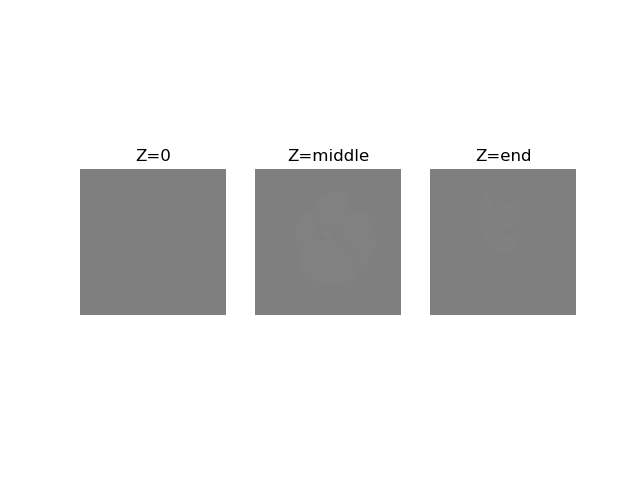
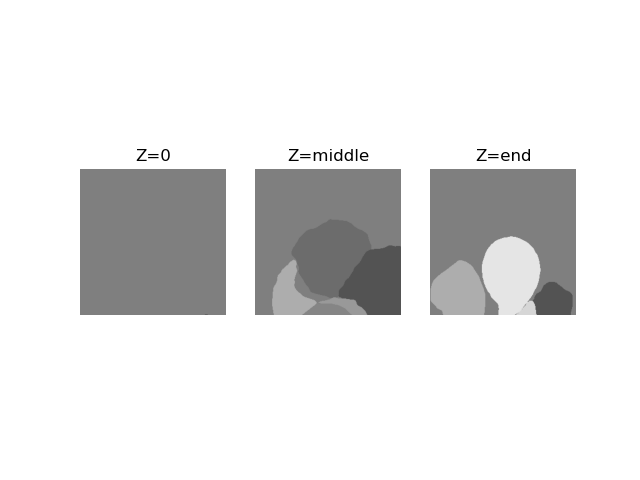
sync

Changed region(s): [[0.6562, 0.4688, 0.9062, 0.6562], [0.4062, 0.5, 0.625, 0.6562]]

diff --git a/results/experiment_name/test_latest/index.html b/results/experiment_name/test_latest/index.html
@@ -17,22 +17,6 @@
         </td>
         <td halign="center" style="word-wrap: break-word;" valign="top">
           <p>
-            <a href="images/ct_test_0_image_fake_B.png">
-              <img src="images/ct_test_0_image_fake_B.png" style="width:256px">
-            </a><br>
-            <p>fake_B</p>
-          </p>
-        </td>
-        <td halign="center" style="word-wrap: break-word;" valign="top">
-          <p>
-            <a href="images/ct_test_0_image_rec_A.png">
-              <img src="images/ct_test_0_image_rec_A.png" style="width:256px">
-            </a><br>
-            <p>rec_A</p>
-          </p>
-        </td>
-        <td halign="center" style="word-wrap: break-word;" valign="top">
-          <p>
             <a href="images/ct_test_0_image_ground_truth_seg_A.png">
               <img src="images/ct_test_0_image_ground_truth_seg_A.png" style="width:256px">
             </a><br>
@@ -53,22 +37,6 @@
               <img src="images/ct_test_0_image_real_B.png" style="width:256px">
             </a><br>
             <p>real_B</p>
-          </p>
-        </td>
-        <td halign="center" style="word-wrap: break-word;" valign="top">
-          <p>
-            <a href="images/ct_test_0_image_fake_A.png">
-              <img src="images/ct_test_0_image_fake_A.png" style="width:256px">
-            </a><br>
-            <p>fake_A</p>
-          </p>
-        </td>
-        <td halign="center" style="word-wrap: break-word;" valign="top">
-          <p>
-            <a href="images/ct_test_0_image_rec_B.png">
-              <img src="images/ct_test_0_image_rec_B.png" style="width:256px">
-            </a><br>
-            <p>rec_B</p>
           </p>
         </td>
         <td halign="center" style="word-wrap: break-word;" valign="top">
@@ -102,22 +70,6 @@
         </td>
         <td halign="center" style="word-wrap: break-word;" valign="top">
           <p>
-            <a href="images/ct_test_1_image_fake_B.png">
-              <img src="images/ct_test_1_image_fake_B.png" style="width:256px">
-            </a><br>
-            <p>fake_B</p>
-          </p>
-        </td>
-        <td halign="center" style="word-wrap: break-word;" valign="top">
-          <p>
-            <a href="images/ct_test_1_image_rec_A.png">
-              <img src="images/ct_test_1_image_rec_A.png" style="width:256px">
-            </a><br>
-            <p>rec_A</p>
-          </p>
-        </td>
-        <td halign="center" style="word-wrap: break-word;" valign="top">
-          <p>
             <a href="images/ct_test_1_image_ground_truth_seg_A.png">
               <img src="images/ct_test_1_image_ground_truth_seg_A.png" style="width:256px">
             </a><br>
@@ -138,22 +90,6 @@
               <img src="images/ct_test_1_image_real_B.png" style="width:256px">
             </a><br>
             <p>real_B</p>
-          </p>
-        </td>
-        <td halign="center" style="word-wrap: break-word;" valign="top">
-          <p>
-            <a href="images/ct_test_1_image_fake_A.png">
-              <img src="images/ct_test_1_image_fake_A.png" style="width:256px">
-            </a><br>
-            <p>fake_A</p>
-          </p>
-        </td>
-        <td halign="center" style="word-wrap: break-word;" valign="top">
-          <p>
-            <a href="images/ct_test_1_image_rec_B.png">
-              <img src="images/ct_test_1_image_rec_B.png" style="width:256px">
-            </a><br>
-            <p>rec_B</p>
           </p>
         </td>
         <td halign="center" style="word-wrap: break-word;" valign="top">
@@ -187,22 +123,6 @@
         </td>
         <td halign="center" style="word-wrap: break-word;" valign="top">
           <p>
-            <a href="images/ct_test_2_image_fake_B.png">
-              <img src="images/ct_test_2_image_fake_B.png" style="width:256px">
-            </a><br>
-            <p>fake_B</p>
-          </p>
-        </td>
-        <td halign="center" style="word-wrap: break-word;" valign="top">
-          <p>
-            <a href="images/ct_test_2_image_rec_A.png">
-              <img src="images/ct_test_2_image_rec_A.png" style="width:256px">
-            </a><br>
-            <p>rec_A</p>
-          </p>
-        </td>
-        <td halign="center" style="word-wrap: break-word;" valign="top">
-          <p>
             <a href="images/ct_test_2_image_ground_truth_seg_A.png">
               <img src="images/ct_test_2_image_ground_truth_seg_A.png" style="width:256px">
             </a><br>
@@ -223,22 +143,6 @@
               <img src="images/ct_test_2_image_real_B.png" style="width:256px">
             </a><br>
             <p>real_B</p>
-          </p>
-        </td>
-        <td halign="center" style="word-wrap: break-word;" valign="top">
-          <p>
-            <a href="images/ct_test_2_image_fake_A.png">
-              <img src="images/ct_test_2_image_fake_A.png" style="width:256px">
-            </a><br>
-            <p>fake_A</p>
-          </p>
-        </td>
-        <td halign="center" style="word-wrap: break-word;" valign="top">
-          <p>
-            <a href="images/ct_test_2_image_rec_B.png">
-              <img src="images/ct_test_2_image_rec_B.png" style="width:256px">
-            </a><br>
-            <p>rec_B</p>
           </p>
         </td>
         <td halign="center" style="word-wrap: break-word;" valign="top">
@@ -272,22 +176,6 @@
         </td>
         <td halign="center" style="word-wrap: break-word;" valign="top">
           <p>
-            <a href="images/ct_test_3_image_fake_B.png">
-              <img src="images/ct_test_3_image_fake_B.png" style="width:256px">
-            </a><br>
-            <p>fake_B</p>
-          </p>
-        </td>
-        <td halign="center" style="word-wrap: break-word;" valign="top">
-          <p>
-            <a href="images/ct_test_3_image_rec_A.png">
-              <img src="images/ct_test_3_image_rec_A.png" style="width:256px">
-            </a><br>
-            <p>rec_A</p>
-          </p>
-        </td>
-        <td halign="center" style="word-wrap: break-word;" valign="top">
-          <p>
             <a href="images/ct_test_3_image_ground_truth_seg_A.png">
               <img src="images/ct_test_3_image_ground_truth_seg_A.png" style="width:256px">
             </a><br>
@@ -308,22 +196,6 @@
               <img src="images/ct_test_3_image_real_B.png" style="width:256px">
             </a><br>
             <p>real_B</p>
-          </p>
-        </td>
-        <td halign="center" style="word-wrap: break-word;" valign="top">
-          <p>
-            <a href="images/ct_test_3_image_fake_A.png">
-              <img src="images/ct_test_3_image_fake_A.png" style="width:256px">
-            </a><br>
-            <p>fake_A</p>
-          </p>
-        </td>
-        <td halign="center" style="word-wrap: break-word;" valign="top">
-          <p>
-            <a href="images/ct_test_3_image_rec_B.png">
-              <img src="images/ct_test_3_image_rec_B.png" style="width:256px">
-            </a><br>
-            <p>rec_B</p>
           </p>
         </td>
         <td halign="center" style="word-wrap: break-word;" valign="top">

diff --git a/models/networks.py b/models/networks.py
@@ -226,8 +226,8 @@ def define_S(input_nc, output_nc, nsf, norm='batch', init_type='normal', init_ga
 
     The segmentor has been initialized by <init_net>. It uses Leakly RELU for non-linearity.
     """
-    net = None
-    norm_layer = get_norm_layer(norm_type=norm)
+    # net = None
+    # norm_layer = get_norm_layer(norm_type=norm)
 
     net = UnetSegmentor(input_nc, output_nc)
 
@@ -491,30 +491,6 @@ class UnetGenerator(nn.Module):
         """Standard forward"""
         return self.model(input)
 
-# class UnetGenerator(nn.Module):
-#     """Create a Unet-based generator"""
-
-#     def __init__(self, input_nc, output_nc, num_downs, ngf=64,
-#                  norm_layer=nn.BatchNorm3d, use_dropout=False, gpu_ids=[]): # TODO
-#         super(UnetGenerator, self).__init__()
-#         self.gpu_ids = gpu_ids
-
-#         # currently support only input_nc == output_nc
-#         assert(input_nc == output_nc)
-
-#         # construct unet structure
-#         unet_block = UnetSkipConnectionBlock(ngf * 4, ngf * 4, norm_layer=norm_layer, innermost=True) 
-#         unet_block = UnetSkipConnectionBlock(ngf * 2, ngf * 4, unet_block, norm_layer=norm_layer) 
-#         unet_block = UnetSkipConnectionBlock(ngf, ngf * 2, unet_block, norm_layer=norm_layer) 
-#         unet_block = UnetSkipConnectionBlock(output_nc, ngf, unet_block, outermost=True, norm_layer=norm_layer)
-
-#         self.model = unet_block
-
-#     def forward(self, input):
-#         if self.gpu_ids and isinstance(input.data, torch.cuda.FloatTensor):
-#             return nn.parallel.data_parallel(self.model, input, self.gpu_ids)
-#         else:
-#             return self.model(input)
 
 
 class Abstract3DUNet(nn.Module):
@@ -583,7 +559,7 @@ class Abstract3DUNet(nn.Module):
         else:
             # regression problem
             self.final_activation = None
-
+    
     def forward(self, x):
         # encoder part
         encoders_features = []
@@ -595,7 +571,6 @@ class Abstract3DUNet(nn.Module):
         # remove the last encoder's output from the list
         # !!remember: it's the 1st in the list
         encoders_features = encoders_features[1:]
-
         # decoder part
         for decoder, encoder_features in zip(self.decoders, encoders_features):
             # pass the output from the corresponding encoder and the output

diff --git a/test.py b/test.py
@@ -35,6 +35,13 @@ from util import util, html
 import sklearn.metrics
 import numpy
 
+def dice_coef(y_true, y_pred):
+    y_true_f = y_true.flatten()
+    y_pred_f = y_pred.flatten()
+    intersection = numpy.sum(y_true_f==y_pred_f)
+    smooth = 1e-7
+    return (2. * intersection) / (y_true_f.size + y_pred_f.size + smooth)
+
 
 if __name__ == '__main__':
     opt = TestOptions().parse()  # get test options
@@ -69,7 +76,7 @@ if __name__ == '__main__':
         model.test()           # run inference
         visuals = model.get_current_visuals()  # get image results
         img_path = model.get_image_paths()     # get image paths
-        
+
         if i % 1 == 0:  # save images to an HTML file
             print('processing (%04d)-th image... %s' % (i, img_path))
             save_images(webpage, visuals, img_path, aspect_ratio=opt.aspect_ratio, width=opt.display_winsize)
@@ -81,7 +88,8 @@ if __name__ == '__main__':
             # change labels back to original values
             for i in range(len(labels_translate)):
                 seg[seg == i] = labels_translate[i]
-            metric = sklearn.metrics.f1_score(truth.flatten(), seg.flatten(), average='micro')
+            metric = dice_coef(truth, seg)
+            # metric = sklearn.metrics.f1_score(truth.flatten(), seg.flatten(), average='micro')
             if dir in scores:
                 scores[dir] = numpy.concatenate((scores[dir], numpy.array([metric])))
             else:

diff --git a/data/dataLoader_dataset.py b/data/dataLoader_dataset.py
@@ -133,6 +133,10 @@ class DataLoaderDataset(BaseDataset):
             x = random.randint(0, np.maximum(0, ct_img.shape[1] - self.opt.crop_size))
             y = random.randint(0, np.maximum(0, ct_img.shape[2] - self.opt.crop_size))
             z = random.randint(0, np.maximum(0, ct_img.shape[3] - self.opt.crop_size_z))
+            # FIXME!!!
+            x = y = z = 0
+
+
             ct_img = torch.from_numpy(ct_img[:,x:x+self.opt.crop_size, y:y+self.opt.crop_size, z:z+self.opt.crop_size_z])
             ct_label = torch.from_numpy(ct_label[:,x:x+self.opt.crop_size, y:y+self.opt.crop_size, z:z+self.opt.crop_size_z])
 
@@ -151,6 +155,10 @@ class DataLoaderDataset(BaseDataset):
             x = random.randint(0, np.maximum(0, mr_img.shape[1] - self.opt.crop_size))
             y = random.randint(0, np.maximum(0, mr_img.shape[2] - self.opt.crop_size))
             z = random.randint(0, np.maximum(0, mr_img.shape[3] - self.opt.crop_size_z))
+            # FIXME!!!
+            x = y = z = 0
+
+            
             mr_img = torch.from_numpy(mr_img[:,x:x+self.opt.crop_size, y:y+self.opt.crop_size, z:z+self.opt.crop_size_z])
             mr_label = torch.from_numpy(mr_label[:,x:x+self.opt.crop_size, y:y+self.opt.crop_size, z:z+self.opt.crop_size_z])
 

diff --git a/options/train_options.py b/options/train_options.py
@@ -26,7 +26,6 @@ class TrainOptions(BaseOptions):
         parser.add_argument('--save_by_iter', action='store_true', help='whether saves model by iteration')
         parser.add_argument('--continue_train', action='store_true', help='continue training: load the latest model')
         parser.add_argument('--load_seg', action='store_true', default="", help='load segmentor pre training')
-        parser.add_argument('--only_seg', action='store_true', default="", help='load segmentor pre training')
         parser.add_argument('--load_name', type=str, default="", help='load experiment name')
         parser.add_argument('--epoch_count', type=int, default=1, help='the starting epoch count, we save the model by <epoch_count>, <epoch_count>+<save_latest_freq>, ...')
         parser.add_argument('--phase', type=str, default='train', help='train, val, test, etc')

diff --git a/options/base_options.py b/options/base_options.py
@@ -57,6 +57,7 @@ class BaseOptions():
         parser.add_argument('--load_iter', type=int, default='0', help='which iteration to load? if load_iter > 0, the code will load models by iter_[load_iter]; otherwise, the code will load models by [epoch]')
         parser.add_argument('--verbose', action='store_true', help='if specified, print more debugging information')
         parser.add_argument('--suffix', default='', type=str, help='customized suffix: opt.name = opt.name + suffix: e.g., {model}_{netG}_size{load_size}')
+        parser.add_argument('--only_seg', action='store_true', default="False", help='load segmentor pre training')
         self.initialized = True
         return parser
 

diff --git a/models/cycle_gan_model.py b/models/cycle_gan_model.py
@@ -70,8 +70,8 @@ class CycleGANModel(BaseModel):
                 visual_names_B.append('seg_fake_A')
         else:
             self.loss_names = ['S_A', 'S_B']
-            visual_names_A = ['ground_truth_seg_A', 'seg_A']
-            visual_names_B = ['ground_truth_seg_B', 'seg_B']
+            visual_names_A = ['real_A', 'ground_truth_seg_A', 'seg_A']
+            visual_names_B = ['real_B', 'ground_truth_seg_B', 'seg_B']
 
         self.labels_translate = [0, 205, 420, 500, 550, 600, 820, 850]
 
